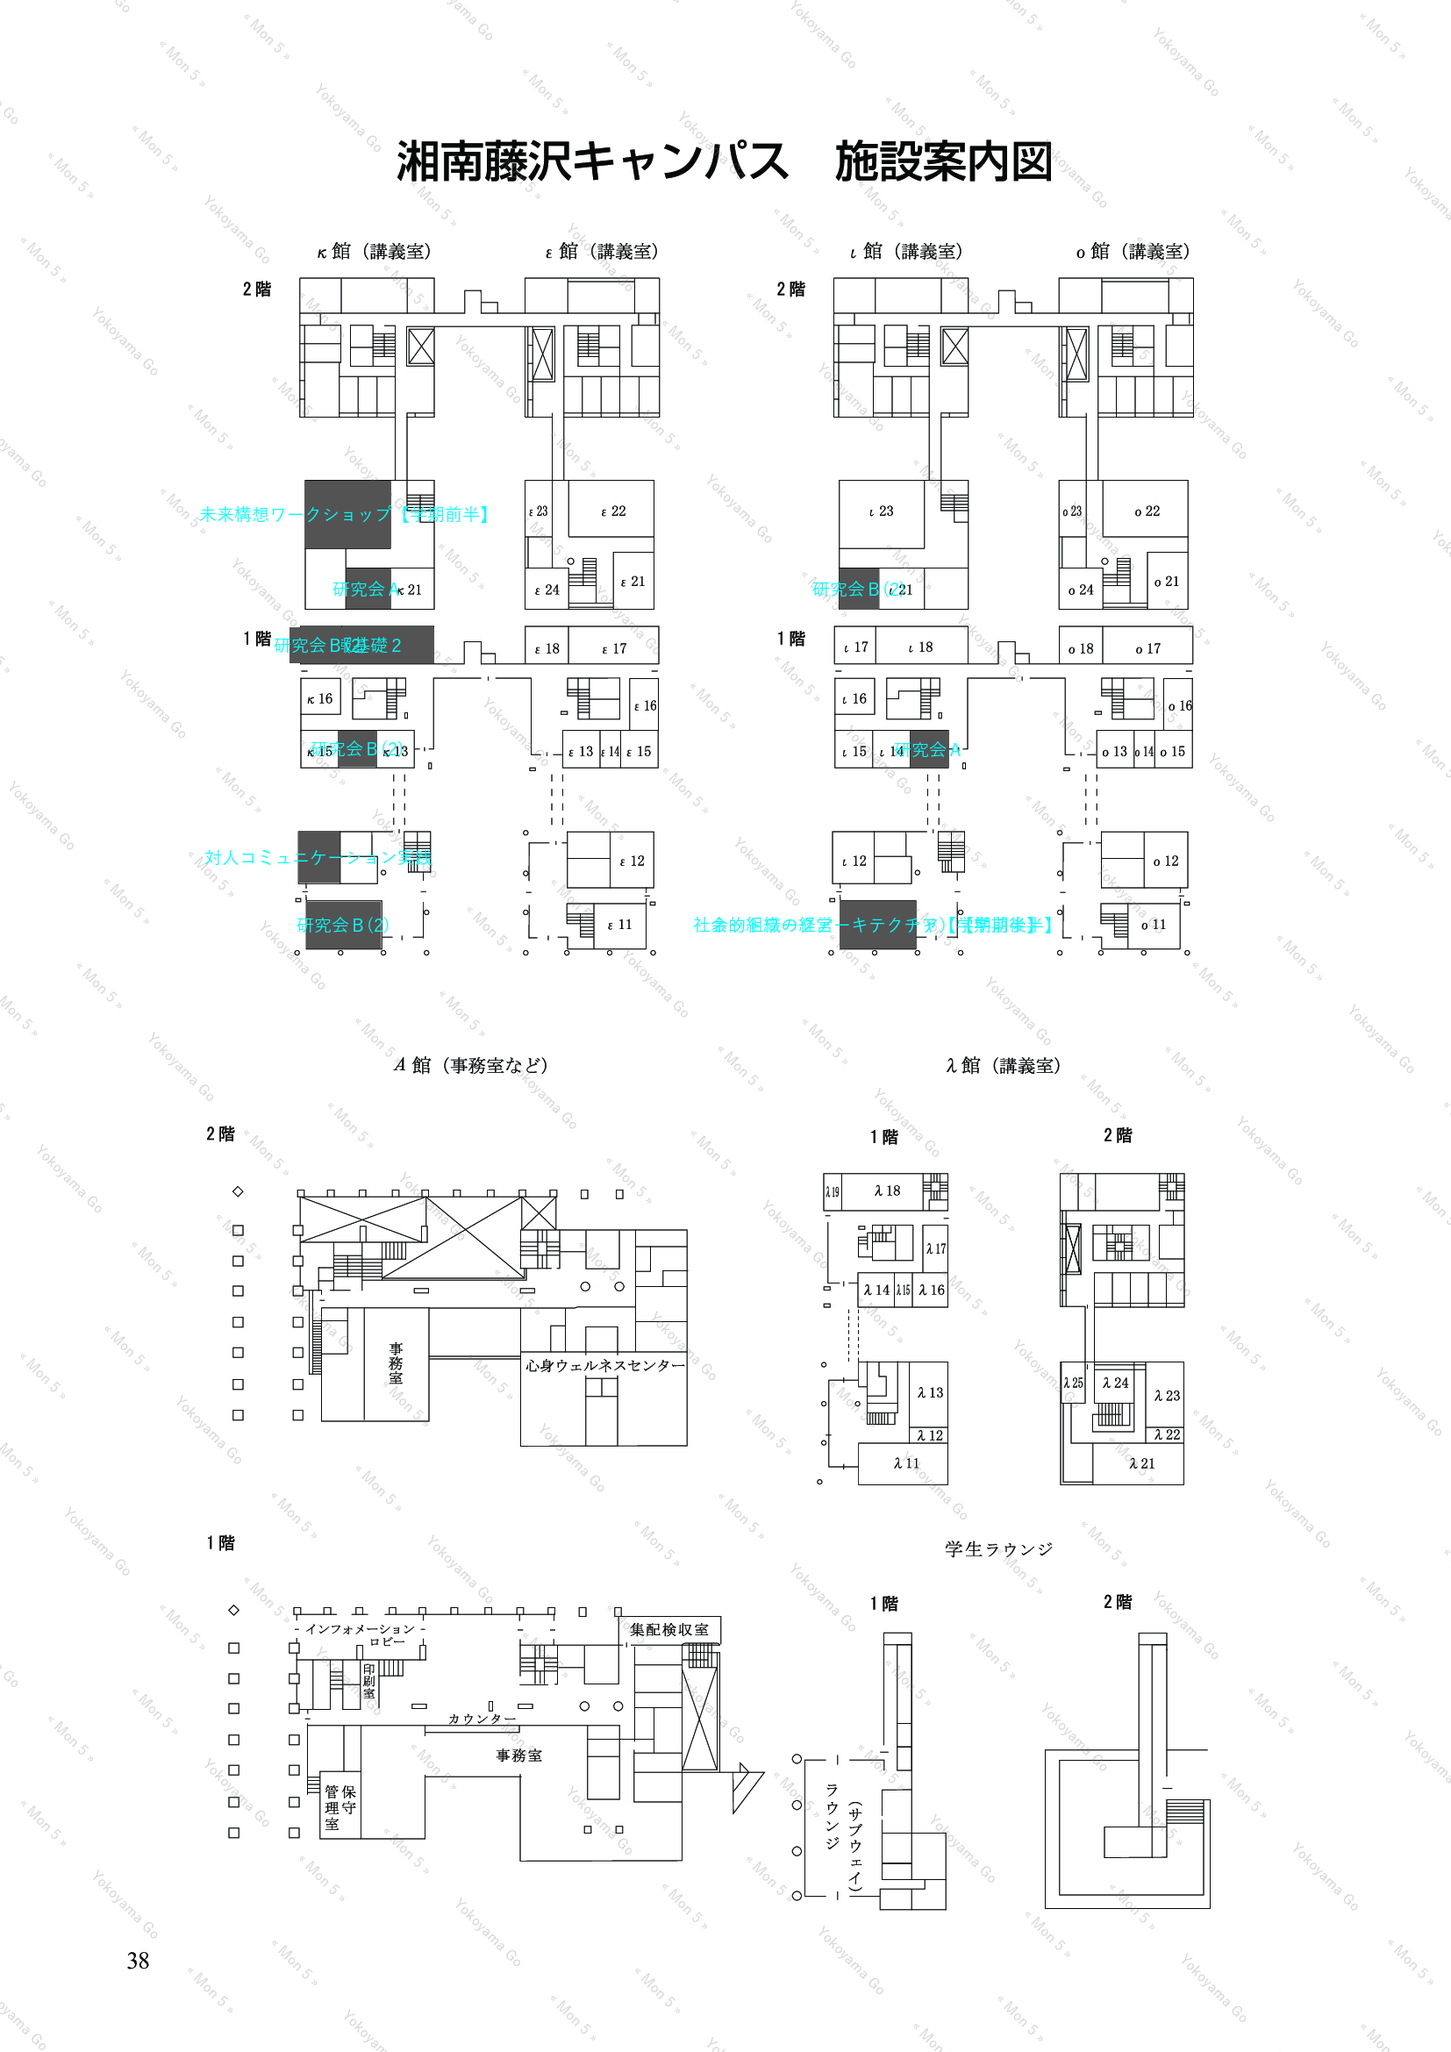
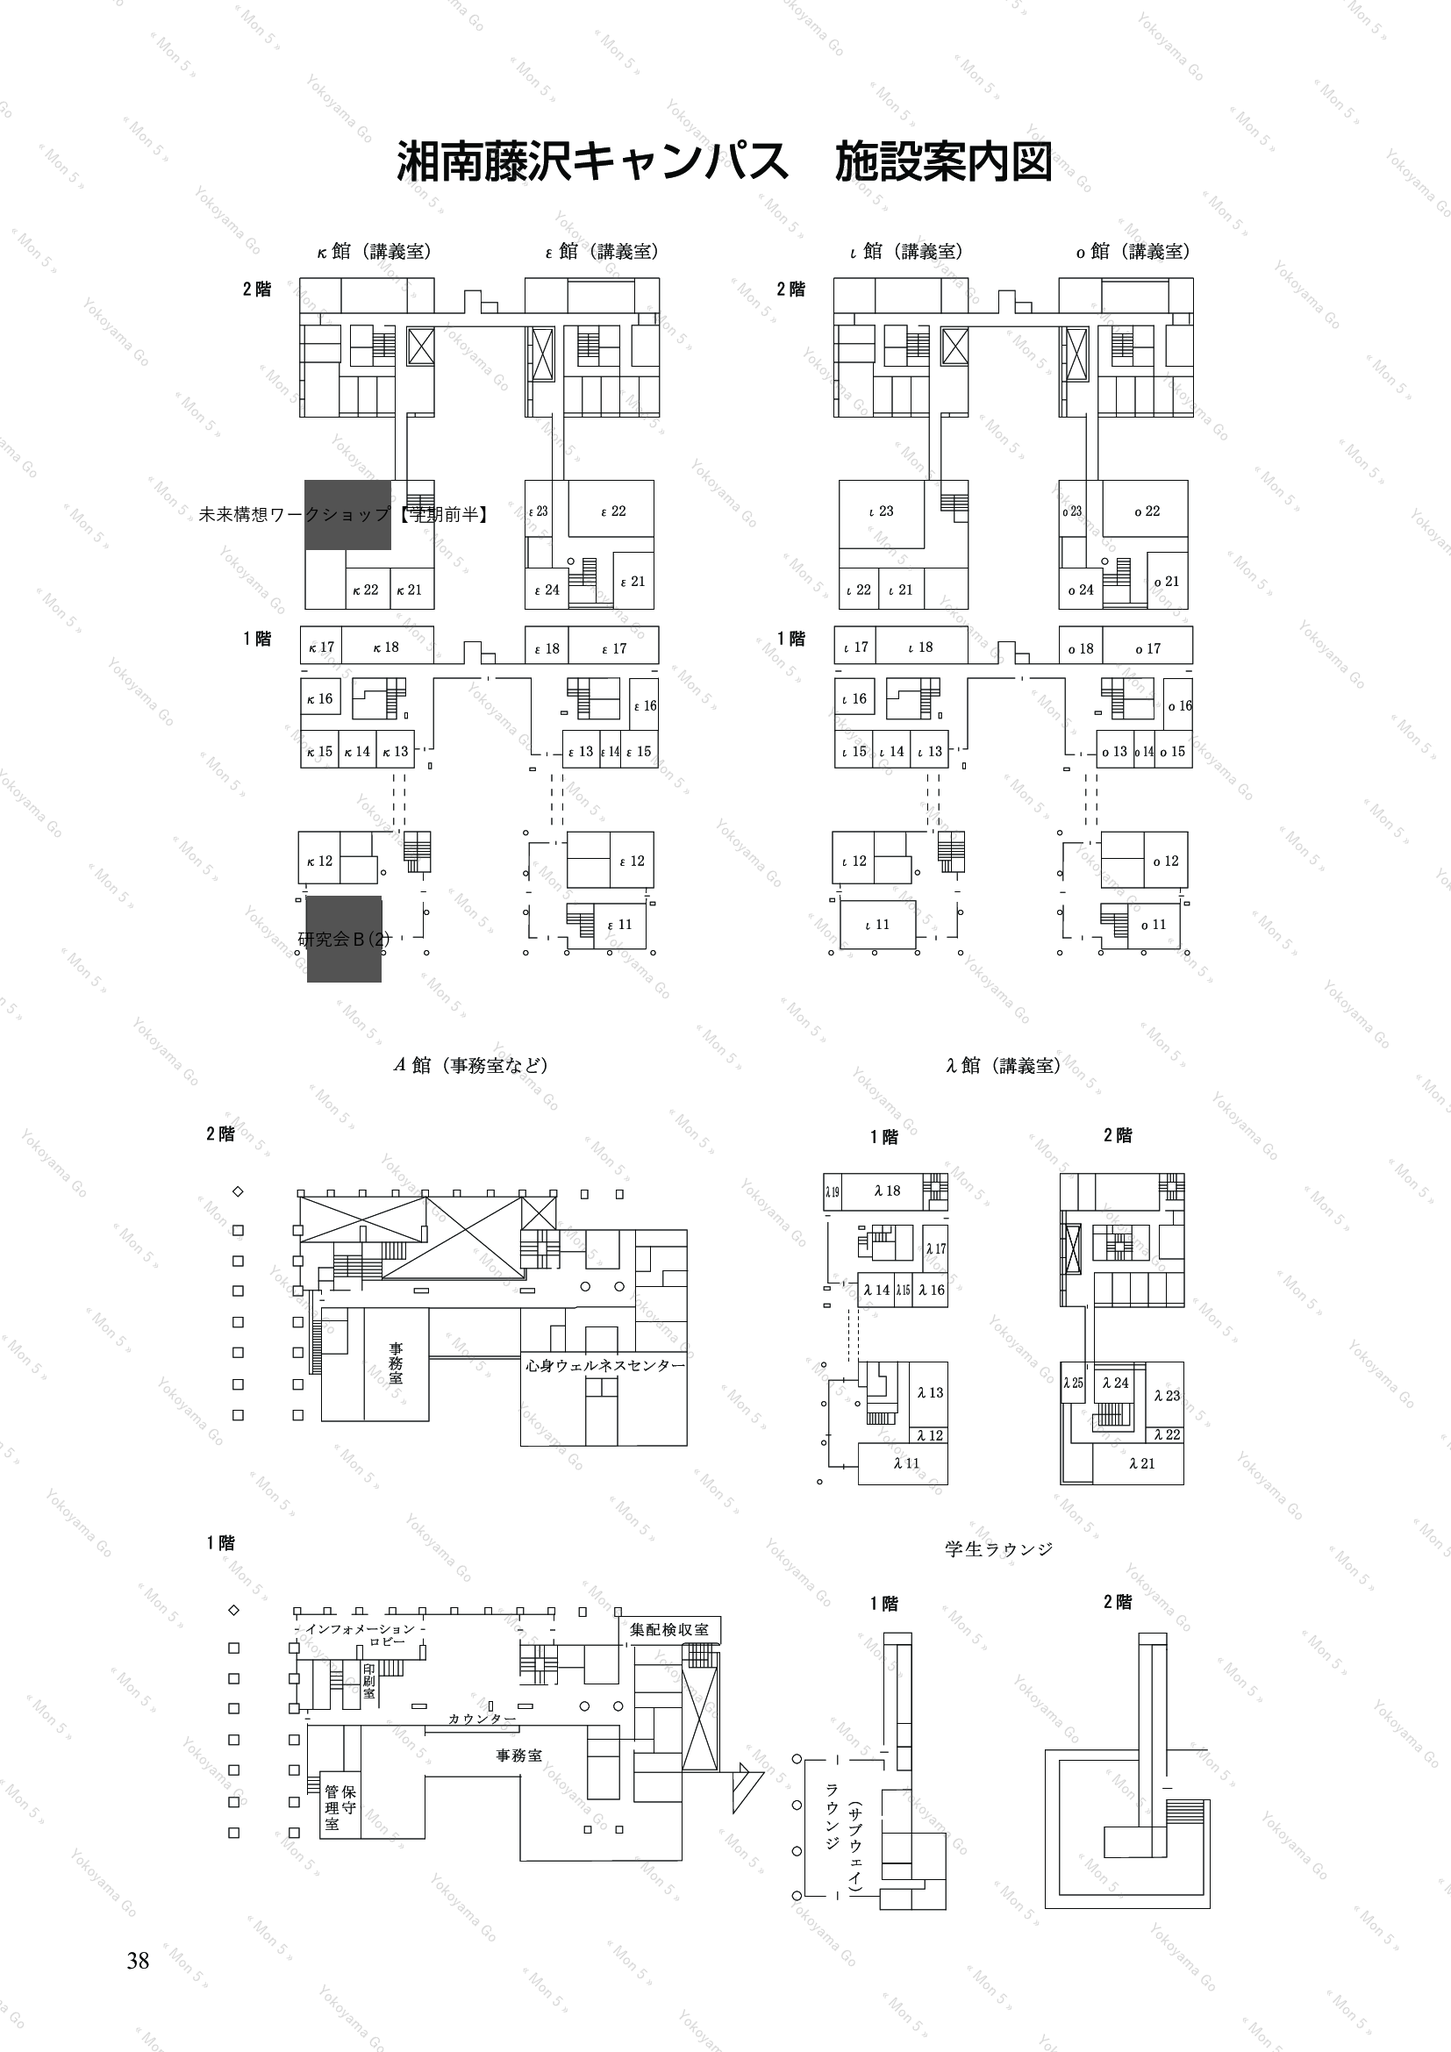
gimp-pathで追加できた

diff --git a/generate_maps.py b/generate_maps.py
@@ -5,7 +5,10 @@ import re
 import tkinter as tk
 from tkinter import filedialog, messagebox
 from rich import print
-import math 
+import math
+# --- 変更箇所 1: ライブラリの追加 ---
+from svgpathtools import svg2paths # SVG解析ライブラリ
+import numpy as np # 数値計算用
 
 
 # --- 1. 定数とファイル名設定 ---
@@ -13,15 +16,15 @@ OUTPUT_DIR = 'sfc_kappa_maps'
 
 # 描画設定
 FILL_COLOR = (83, 83, 83, 150)  # 教室の塗りつぶし色
-TEXT_COLOR = (0,1258, 255  )        # 教室名の文字色 (黒に変更)
-FONT_SIZE = 20                  # 教室名のフォントサイズ
+TEXT_COLOR = (0, 0, 0)         # 教室名の文字色 (黒)
+FONT_SIZE = 20                 # 教室名のフォントサイズ
 
 CUSTOM_STRING = "Yokoyama Go" 
 
-WATERMARK_FONT_SIZE = 16    # 透かしのフォントサイズ
-WATERMARK_ANGLE = -45         # 透かしの角度 (右肩上がり)
+WATERMARK_FONT_SIZE = 16       # 透かしのフォントサイズ
+WATERMARK_ANGLE = -45          # 透かしの角度 (右肩上がり)
 WATERMARK_COLOR = (120, 120, 120, 80) # 透かしの色 (グレー, 31%の透明度)
-WATERMARK_SPACING_ZENKAKU = 15  # 透かし文字間のスペース（全角文字数）
+WATERMARK_SPACING_ZENKAKU = 15 # 透かし文字間のスペース（全角文字数）
 WATERMARK_LINE_SPACING = 6 # 透かし文字の縦のスペーシング
 
 # 曜日変換マップ
@@ -31,7 +34,44 @@ DAY_JP_TO_EN = {
 }
 
 
+import re
 
+def normalize_room_code(code):
+
+    #教室コードを結合用に正規化する。
+   # ギリシャ文字を英字に変換し、小文字化、スペース削除を行う。
+    #例: "κ23" -> "kappa23", "Kappa 23" -> "kappa23", "K23" -> "kappa23"
+
+    if not isinstance(code, str):
+        return ""
+    
+    greek_to_latin = {
+        'α': 'alpha', 'β': 'beta', 'γ': 'gamma', 'δ': 'delta',
+        'ε': 'epsilon', 'ζ': 'zeta', 'η': 'eta', 'θ': 'theta',
+        'ι': 'iota', 'κ': 'kappa', 'λ': 'lambda', 'μ': 'mu',
+        'ν': 'nu', 'ξ': 'xi', 'ο': 'omicron', 'π': 'pi',
+        'ρ': 'rho', 'σ': 'sigma', 'τ': 'tau', 'υ': 'upsilon',
+        'φ': 'phi', 'χ': 'chi', 'ψ': 'psi', 'ω': 'omega',
+        
+        # 大文字のギリシャ文字の追加
+        'Α': 'alpha', 'Β': 'beta', 'Γ': 'gamma', 'Δ': 'delta',
+        'Ε': 'epsilon', 'Ζ': 'zeta', 'Η': 'eta', 'Θ': 'theta',
+        'Ι': 'iota', 'Κ': 'kappa', 'Λ': 'lambda', 'Μ': 'mu',
+        'Ν': 'nu', 'Ξ': 'xi', 'Ο': 'omicron', 'Π': 'pi',
+        'Ρ': 'rho', 'Σ': 'sigma', 'Τ': 'tau', 'Υ': 'upsilon',
+        'Φ': 'phi', 'Χ': 'chi', 'Ψ': 'psi', 'Ω': 'omega'
+    }
+    
+    # 最初に小文字化の処理があるので、これは少し冗長になりますが、
+    # 処理順序を変更せず元の構造を保つために、このマッピング拡張が最も安全です。
+    code = code.lower() 
+                        
+    for greek, latin in greek_to_latin.items():
+        code = code.replace(greek, latin)
+        
+    code = re.sub(r'[\s\-_]', '', code)
+    
+    return code
 # --- 2. 日本語フォント探索ロジック ---
 def find_japanese_font():
     """
@@ -106,7 +146,13 @@ def preprocess_syllabus_data(df):
                     '曜日時限': ts,
                 })
 
-    return pd.DataFrame(records)
+    df_result = pd.DataFrame(records)
+    
+    # DataFrameが空でない場合 *のみ* 、正規化カラムを追加する
+    if not df_result.empty:
+        df_result['normalize_code'] = df_result['教室コード'].apply(normalize_room_code)
+
+    return df_result
 
 
 # --- 4. ファイル選択ダイアログ関数 ---
@@ -126,8 +172,66 @@ def select_file(title, filetypes):
         
     return file_path
 
+# SVG解析ロジック
+def extract_room_coordinates_from_svg(svg_file_path):
+    """
+    SVGファイルからパス情報（教室コードと外接矩形座標）を抽出し、DataFrameとして返す。
+    GIMPで作成した円形・多角形の教室にも対応する。
+    """
+    try:
+        # svg2pathsでSVGを解析。pathsはPathオブジェクトのリスト、attributesは属性のリスト
+        paths, attributes = svg2paths(svg_file_path)
+    except Exception as e:
+        print(f"致命的エラー: SVGファイルの解析に失敗しました。ファイル形式またはライブラリの問題です: {e}")
+        return pd.DataFrame()
 
-# ### ▼ 透かし機能追加 ▼ ###
+    records = []
+    
+    for path, attr in zip(paths, attributes):
+        # 教室コードはパスのIDとしてGIMPで設定されている
+        classroom_name = attr.get('id')
+        
+        # IDがないパス（装飾など）はスキップ
+        if not classroom_name or not classroom_name.strip():
+            continue
+
+        # 外接矩形 (Bounding Box) を計算
+        # path.bbox()は (xmin, xmax, ymin, ymax) を返す
+        try:
+            xmin, xmax, ymin, ymax = path.bbox() 
+        except Exception as e:
+            print(f"警告: パスID '{classroom_name}' の外接矩形計算中にエラーが発生しました: {e}。このパスはスキップされます。")
+            continue
+
+        # データを整数に丸める（ピクセル座標として利用するため）
+        records.append({
+            '教室コード': classroom_name,
+            # X/Yの最小値・最大値を保持（CSV形式に合わせる）
+            'x_min_raw': xmin,
+            'y_min_raw': ymin, 
+            'x_max_raw': xmax,
+            'y_max_raw': ymax,
+        })
+
+    if not records:
+        print("致命的エラー: SVGファイルから有効な教室座標データ（ID付きパス）が見つかりませんでした。")
+        return pd.DataFrame()
+
+    # DataFrameに変換し、整数座標を計算
+    df = pd.DataFrame(records)
+    df['x_start'] = np.floor(df['x_min_raw']).astype(int)
+    df['y_start'] = np.floor(df['y_min_raw']).astype(int) 
+    df['x_end'] = np.ceil(df['x_max_raw']).astype(int)
+    df['y_end'] = np.ceil(df['y_max_raw']).astype(int)
+    
+    df['normalize_code'] = df['教室コード'].apply(normalize_room_code)
+    
+    # 元の生の座標列は削除
+    df = df.drop(columns=['x_min_raw', 'y_min_raw', 'x_max_raw', 'y_max_raw'])
+
+    return df
+
+
 # --- 4.5. 透かしレイヤー生成関数 ---
 def create_watermark_layer(width, height, text_to_draw, font, color, angle, spacing_text):
     """
@@ -163,7 +267,6 @@ def create_watermark_layer(width, height, text_to_draw, font, color, angle, spac
     rotated_layer = watermark_layer.rotate(angle, resample=Image.BICUBIC)
     
     
-    # ### ▼▼▼ このブロックを差し替え ▼▼▼ ###
     
     # 4. 元の画像サイズ (width, height) に合わせて中央から切り出す
     
@@ -183,8 +286,7 @@ def create_watermark_layer(width, height, text_to_draw, font, color, angle, spac
     
     # cropメソッドには整数のタプルを渡す
     final_watermark = rotated_layer.crop((left, top, right, bottom))
-    
-    # ### ▲▲▲ 差し替えここまで ▲▲▲ ###
+
 
 
     # 最終確認 (万が一サイズが違ったらリサイズする)
@@ -196,8 +298,19 @@ def create_watermark_layer(width, height, text_to_draw, font, color, angle, spac
 
 # --- 5. メイン処理 ---
 if __name__ == '__main__':
-    print("SFC授業教室マップ生成スクリプト (κ棟MVP - 透かし対応版) を開始します。")
+    print("SFC授業教室マップ生成スクリプト (κ棟MVP - SVG対応版) を開始します。")
     
+    # --- 重要: 依存ライブラリの確認 ---
+    try:
+        import svgpathtools
+    except ImportError:
+        print("\n[red]エラー:[/red] 'svgpathtools' ライブラリが見つかりません。")
+        print("コマンドプロンプトで以下を実行してください:")
+        print("  [yellow]pip install svgpathtools[/yellow]")
+        exit()
+    # --- 依存ライブラリの確認終わり ---
+
+
     if not os.path.exists(OUTPUT_DIR):
         os.makedirs(OUTPUT_DIR)
 
@@ -205,30 +318,37 @@ if __name__ == '__main__':
     print("ファイル選択ダイアログが表示されます。")
     base_image_path = select_file("1/3. ベース地図画像を選択してください", [("Image files", "*.jpg *.jpeg *.png")])
     syllabus_file_path = select_file("2/3. 授業スケジュールCSVを選択してください", [("CSV files", "*.csv")])
-    location_file_path = select_file("3/3. 教室座標CSVを選択してください", [("CSV files", "*.csv")])
+    # --- 変更箇所 2: 教室座標ファイルタイプをSVGに変更 ---
+    location_file_path = select_file("3/3. 教室パスSVGを選択してください", [("SVG files", "*.svg")])
     
     # 5-2. データの読み込み・整形
     try:
         syllabus_df = pd.read_csv(syllabus_file_path)
-        location_df = pd.read_csv(location_file_path).dropna(subset=['beginning_x', 'beginning_y'])
+        # --- 変更箇所 3: SVG解析関数呼び出しに置き換え ---
+        location_df = extract_room_coordinates_from_svg(location_file_path)
+        
+        if location_df.empty:
+            print("[red]致命的エラー:[/red] SVG解析結果が空のため、プログラムを終了します。")
+            exit()
+            
     except Exception as e:
         print(f"データの読み込み中にエラーが発生しました: {e}")
         exit()
     
-    location_df = location_df.rename(columns={
-        'classroom_name': '教室コード', 'beginning_x': 'x_min', 'beginning_y': 'y_min', 'end_x': 'x_max', 'end_y': 'y_max'
-    })
-    location_df['x_start'] = location_df[['x_min', 'x_max']].min(axis=1).astype(int)
-    location_df['x_end'] = location_df[['x_min', 'x_max']].max(axis=1).astype(int)
-    location_df['y_start'] = location_df[['y_min', 'y_max']].min(axis=1).astype(int)
-    location_df['y_end'] = location_df[['y_min', 'y_max']].max(axis=1).astype(int)
-    location_df = location_df.drop(columns=['x_min', 'y_min', 'x_max', 'y_max'])
-    
     print("データのパース（分解）処理中...")
     processed_syllabus_df = preprocess_syllabus_data(syllabus_df)
-    processed_syllabus_df_syllabus_df = processed_syllabus_df.copy()
-    all_time_slots = processed_syllabus_df_syllabus_df['曜日時限'].unique()    
+
+    # --- ★修正★ DataFrameが空かどうかのチェックを先に行う ---
+    if processed_syllabus_df.empty:
+        print("[red]エラー:[/red] 処理対象の有効な授業データ（教室と時限が揃っているもの）が見つかりませんでした。")
+        print("シラバスCSVファイルの中身を確認してください。")
+        exit()
+
+    # DataFrameが空でないことが保証されたので、安全に列にアクセスできる
+    all_time_slots = processed_syllabus_df['曜日時限'].unique() 
+    
     if len(all_time_slots) == 0:
+        # このチェックは念のため残すが、通常は上の .empty でキャッチされる
         print("エラー: κ棟の授業が見つかりませんでした。")
         exit()
         
@@ -243,17 +363,17 @@ if __name__ == '__main__':
         exit()
     
     font = ImageFont.load_default()
-    watermark_font = ImageFont.load_default() # ### ▼ 透かし機能追加 ▼ ###
+    watermark_font = ImageFont.load_default() 
 
     if GLOBAL_FONT_PATH:
         try:
             if GLOBAL_FONT_INDEX is not None:
                 font = ImageFont.truetype(GLOBAL_FONT_PATH, FONT_SIZE, index=GLOBAL_FONT_INDEX)
-                watermark_font = ImageFont.truetype(GLOBAL_FONT_PATH, WATERMARK_FONT_SIZE, index=GLOBAL_FONT_INDEX) # ### ▼ 透かし機能追加 ▼ ###
+                watermark_font = ImageFont.truetype(GLOBAL_FONT_PATH, WATERMARK_FONT_SIZE, index=GLOBAL_FONT_INDEX) 
                 print(f"日本語フォント: {os.path.basename(GLOBAL_FONT_PATH)} (Index: {GLOBAL_FONT_INDEX}) を使用します。")
             else:
                 font = ImageFont.truetype(GLOBAL_FONT_PATH, FONT_SIZE)
-                watermark_font = ImageFont.truetype(GLOBAL_FONT_PATH, WATERMARK_FONT_SIZE) # ### ▼ 透かし機能追加 ▼ ###
+                watermark_font = ImageFont.truetype(GLOBAL_FONT_PATH, WATERMARK_FONT_SIZE) 
                 print(f"日本語フォント: {os.path.basename(GLOBAL_FONT_PATH)} を使用します。")
                 
         except IOError:
@@ -266,23 +386,26 @@ if __name__ == '__main__':
     spacing_text = "　" * WATERMARK_SPACING_ZENKAKU
     # ### ▲ 透かし機能追加 ▲ ###
 
-    # 5-4. 全時限のループと描画
+# 5-4. 全時限のループと描画
     for time_slot in sorted(all_time_slots):
         print(f"処理中: {time_slot}")
 
-        current_schedule = processed_syllabus_df_syllabus_df[processed_syllabus_df_syllabus_df['曜日時限'] == time_slot]
-        merged_df = pd.merge(current_schedule, location_df, on='教室コード', how='inner')
+        current_schedule = processed_syllabus_df[processed_syllabus_df['曜日時限'] == time_slot]
+ 
+        merged_df = pd.merge(current_schedule, location_df, on='normalize_code', how='inner') 
 
+        # merged_dfが空でも処理を続行し、透かしのみの「空のマップ」を生成する
         if merged_df.empty:
-            print(f" -> 警告: {time_slot} に κ棟の授業はありますが、座標データがありませんでした。スキップします。")
-            continue
+            # 警告メッセージを変更
+            print(f" -> 警告: {time_slot} に座標データがありません。透かしのみのマップを生成します。")
+        # 'continue' を削除し、処理を続行させる
+
 
         try:
             # 1. 元の地図をコピー
             base_img = initial_base_img.copy()
             
-            # ### ▼ 透かし機能追加 ▼ ###
-            # 2. 透かしレイヤーを描画
+            # 2. 透かしレイヤーを描画 (「火5」などの情報で)
             
             # time_slot (例: "火2") を "tue 2" に変換
             day_jp = time_slot[0]
@@ -291,7 +414,7 @@ if __name__ == '__main__':
             en_time_slot = f"{day_en} {period}"
             
             # 比率 (2/3, 1/3) に合わせてテキストを生成
-            watermark_base_text = f"« {en_time_slot} »         {CUSTOM_STRING}          « {en_time_slot} »          "
+            watermark_base_text = f"« {en_time_slot} »         {CUSTOM_STRING}         « {en_time_slot} »         "
 
             # 透かしレイヤーを生成
             watermark_layer = create_watermark_layer(
@@ -307,10 +430,11 @@ if __name__ == '__main__':
             base_img = Image.alpha_composite(base_img, watermark_layer)
 
             # 4. 合成後の画像に、教室の塗りつぶしとテキストを描画
-            #    (これにより、透かしの上に教室情報が乗る)
             draw = ImageDraw.Draw(base_img)
             
+            # ★merged_dfが空の場合、このforループは単に実行されないだけ
             for _, row in merged_df.iterrows():
+                # 座標が既にx_start, y_start, x_end, y_endとして計算されている
                 x_start, y_start, x_end, y_end = row['x_start'], row['y_start'], row['x_end'], row['y_end']
                 text = row['科目名']
                 
@@ -334,6 +458,8 @@ if __name__ == '__main__':
             output_filename = os.path.join(OUTPUT_DIR, f"map_{time_slot.replace('/', '_')}.png")
             # RGBAからRGBに変換して保存 (PNGだが透明度を統合)
             base_img.convert('RGB').save(output_filename)
+            
+            # merged_dfが空でも「生成しました」と表示される
             print(f" -> {output_filename} を生成しました。")
 
         except Exception as e:
